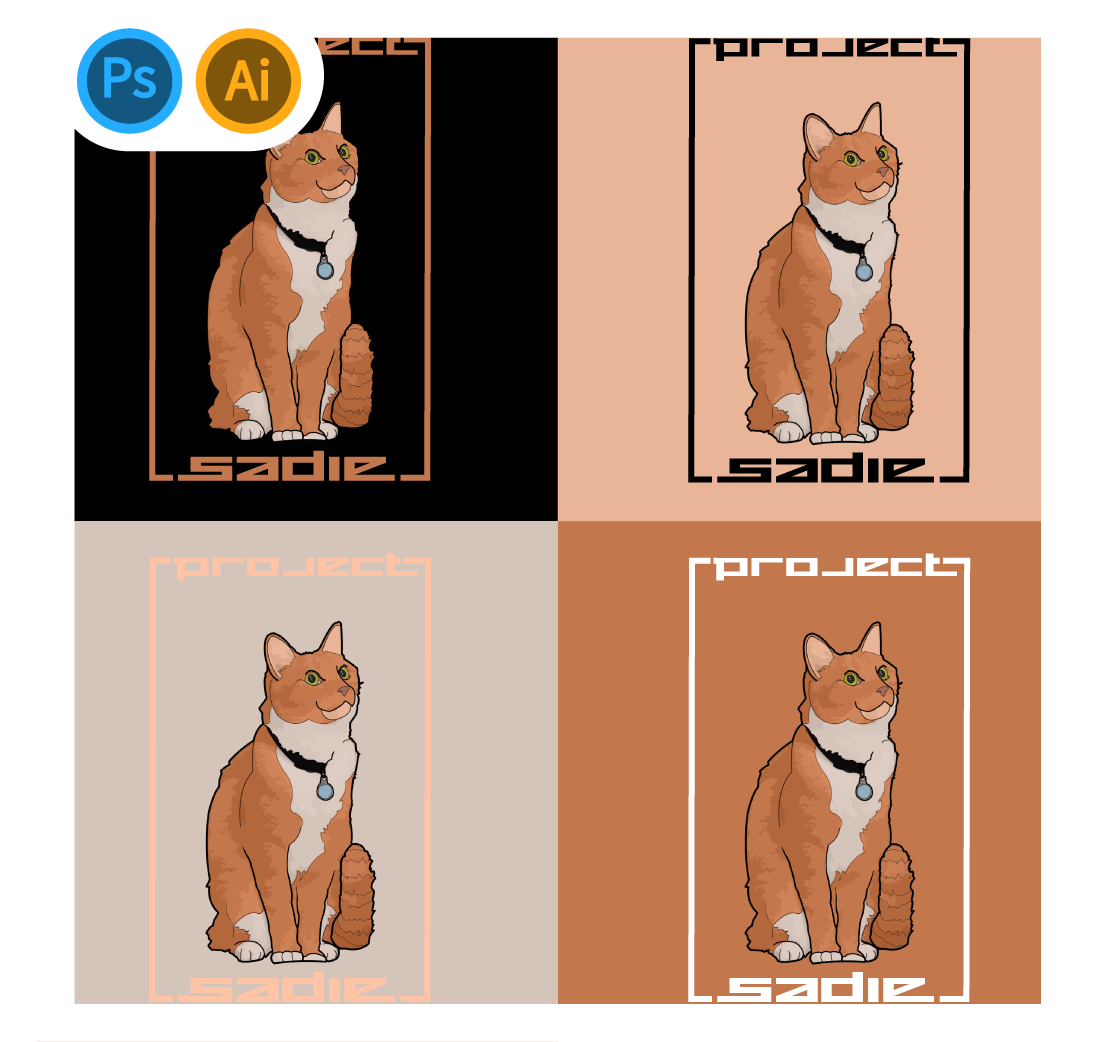
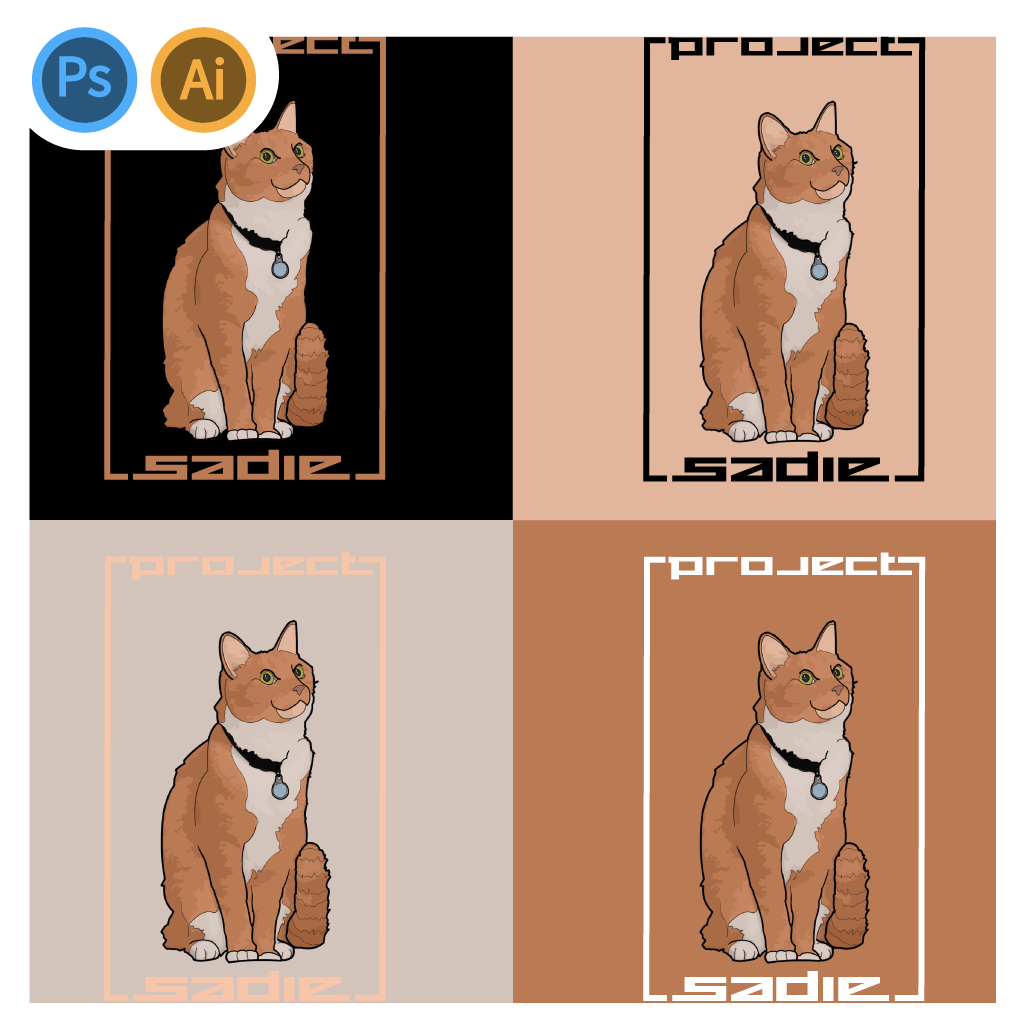
create github pages

Changed region(s): [[0.0311, 0.0, 0.9942, 0.9903], [0.5903, 0.0309, 0.901, 0.4642]]

diff --git a/page2.html b/page2.html
@@ -54,7 +54,7 @@
     </nav>
 </section>
 
-<section class="engine"><a href="https://mobirise.info/u">bootstrap responsive templates</a></section><section class="mbr-section form1 cid-rmssgnzJ0f" id="form1-2l">
+<section class="engine"><a href="https://mobirise.info/h">create your own web page</a></section><section class="mbr-section form1 cid-rmssgnzJ0f" id="form1-2l">
 
     
 
@@ -73,7 +73,7 @@
             <div class="media-container-column col-lg-8" data-form-type="formoid">
                     <div data-form-alert="" hidden="">Thanks for filling out the form!</div>
             
[2 lines of base64/hex data omitted]
                         <div class="row row-sm-offset">
                             <div class="col-md-4 multi-horizontal" data-for="name">
                                 <div class="form-group">

diff --git a/index.html b/index.html
@@ -53,7 +53,7 @@
     </nav>
 </section>
 
-<section class="engine"><a href="https://mobirise.info/u">bootstrap html templates</a></section><section class="cid-rk5LGsgMAR" id="image3-17">
+<section class="engine"><a href="https://mobirise.info/l">free site templates</a></section><section class="cid-rk5LGsgMAR" id="image3-17">
 
     
 
@@ -72,8 +72,8 @@
     
 
     <figure class="mbr-figure container">
-            <div class="image-block" style="width: 61%;">
-                <a href="assets/files/SADIE%20WARHOL.pdf" target="_blank"><img src="assets/images/sadie-warhol-1114x1042.png" width="1400" alt="Mobirise" title=""></a>
+            <div class="image-block" style="width: 57%;">
+                <a href="assets/files/SADIE%20WARHOL.pdf"><img src="assets/images/sadie-warhol-1114x1042.png" width="1400" alt="Mobirise" title=""></a>
                 
             </div>
     </figure>

diff --git a/page1.html b/page1.html
@@ -53,7 +53,7 @@
     </nav>
 </section>
 
-<section class="engine"><a href="https://mobirise.info/a">online website builder</a></section><section class="testimonials5 cid-rmsAcLgyRp" id="testimonials5-2o">
+<section class="engine"><a href="https://mobirise.info">Mobirise</a></section><section class="testimonials5 cid-rmsAcLgyRp" id="testimonials5-2o">
 
     
 
